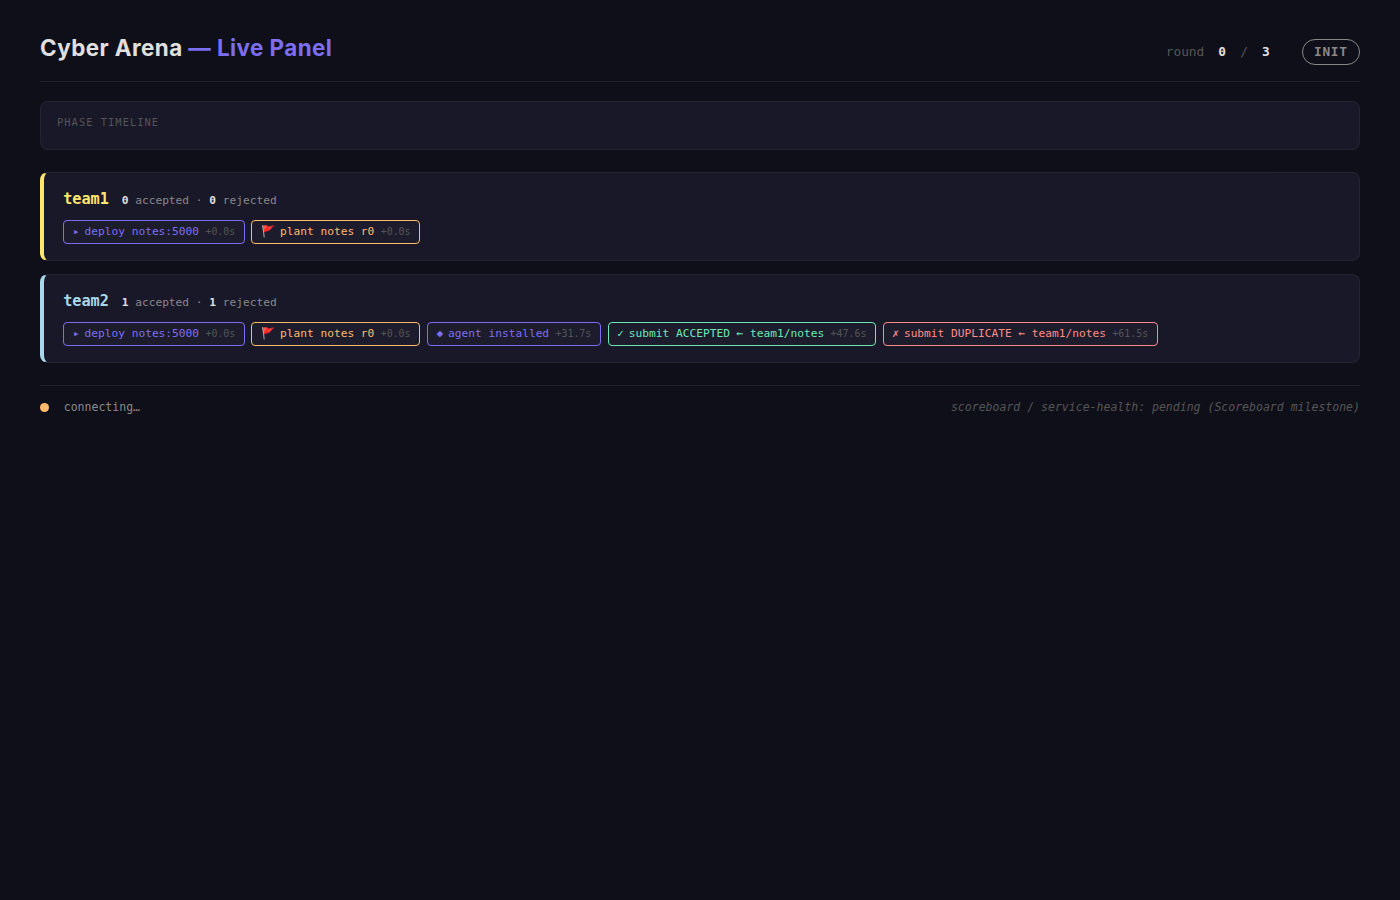
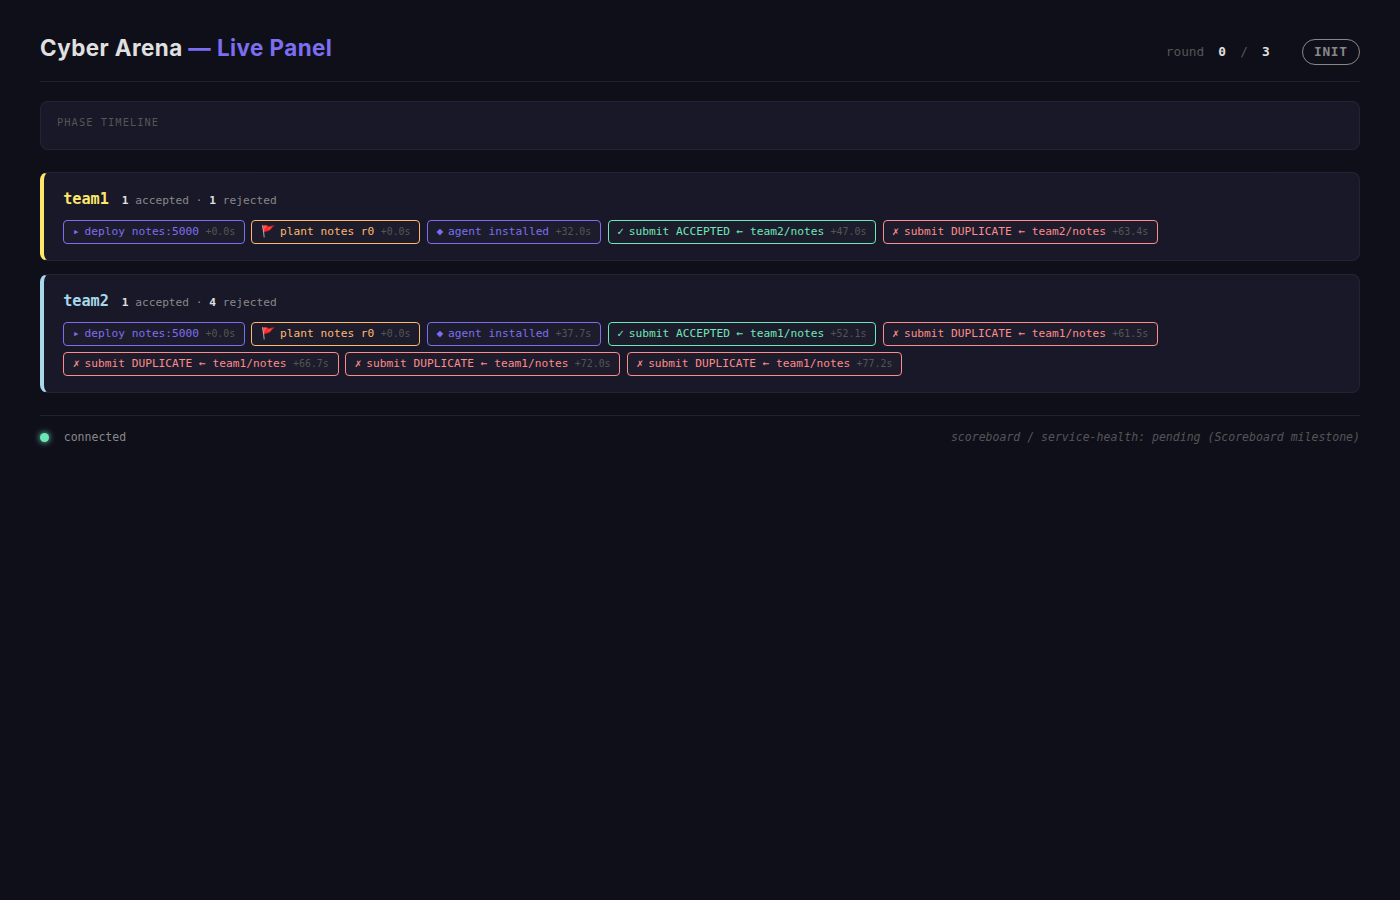
docs: re-capture M6 panel screenshot with agents on both teams
Demo now installs attack agents on team1 and team2 concurrently so the
panel shows symmetric activity instead of a one-sided run. Both agents
landed ACCEPTED submissions within 15s of install. Report captions
updated; first screenshot unchanged.

diff --git a/scripts/m6_screenshot_demo.py b/scripts/m6_screenshot_demo.py
@@ -133,41 +133,50 @@ def main() -> int:
         time.sleep(0.5)
         _shot(SHOTS_DIR / "01_after_plant.png", "after plant", chrome, PORT)
 
-        print("  🤖 installing attack agent on team2_dev …")
-        agent_cfg = game.agent_config_for("team2")
+        # Install attack agents on BOTH teams so the panel shows symmetric
+        # activity — team1 attacks team2, team2 attacks team1. Both share the
+        # same router quota so costs ~2x the single-agent run.
         mgr = ClaudeAgentManager(client=client)
-        mgr.install(_handle(client, "team2_dev"), agent_cfg)
+        agent_cfgs = {tid: game.agent_config_for(tid) for tid in ("team1", "team2")}
+        for tid, cfg_ in agent_cfgs.items():
+            print(f"  🤖 installing attack agent on {tid}_dev …")
+            mgr.install(_handle(client, f"{tid}_dev"), cfg_)
+            # AGENT_INSTALLED is in the EventType enum (M4 design) but no
+            # production code path emits it yet. Surface it here so the panel
+            # shows the installed-agent chip. Future M4.5 will emit from
+            # ClaudeAgentManager directly.
+            asyncio.run(game.bus.publish(new_event(
+                EventType.AGENT_INSTALLED,
+                team_id=tid,
+                payload={"cli": cfg_.cli.split()[0]},
+            )))
 
-        # AGENT_INSTALLED is in the EventType enum (M4 design) but no
-        # production code path emits it yet. Surface it here so the panel
-        # can show the installed-agent chip. Future M4.5 will emit from
-        # ClaudeAgentManager directly.
-        asyncio.run(game.bus.publish(new_event(
-            EventType.AGENT_INSTALLED,
-            team_id="team2",
-            payload={"cli": agent_cfg.cli.split()[0]},
-        )))
-
+        # Wait for BOTH teams to land at least one ACCEPTED. If only one
+        # lands within the budget we still take the screenshot — partial
+        # success is more informative than failure.
         deadline = time.monotonic() + WAIT_S
         last_log = 0.0
+        accepted_by = set()
         while time.monotonic() < deadline:
-            accepted = [e for e in game.bus.history()
-                        if e.type == "FLAG_SUBMITTED" and e.payload.get("accepted")]
-            if accepted:
-                print(f"  ✅ ACCEPTED submission landed after {int(WAIT_S - (deadline - time.monotonic()))}s")
+            for e in game.bus.history():
+                if e.type == "FLAG_SUBMITTED" and e.payload.get("accepted"):
+                    accepted_by.add(e.payload.get("submitter_team_id"))
+            if {"team1", "team2"}.issubset(accepted_by):
+                print(f"  ✅ both teams landed ACCEPTED after {int(WAIT_S - (deadline - time.monotonic()))}s")
                 break
             if time.monotonic() - last_log > 30:
-                print(f"  ...waiting (~{int(WAIT_S - (deadline - time.monotonic()))}s elapsed)")
+                print(f"  ...waiting (~{int(WAIT_S - (deadline - time.monotonic()))}s elapsed, accepted_by={sorted(accepted_by)})")
                 last_log = time.monotonic()
             time.sleep(POLL_S)
         else:
-            print("  ⚠  no ACCEPTED in time — capturing anyway", file=sys.stderr)
+            print(f"  ⚠  not all teams ACCEPTED within budget; accepted_by={sorted(accepted_by)} — capturing anyway", file=sys.stderr)
 
         time.sleep(1.5)
         _shot(SHOTS_DIR / "02_after_attack.png", "after attack", chrome, PORT)
 
-        try: mgr.kill(_handle(client, "team2_dev"))
-        except Exception: pass
+        for tid in ("team1", "team2"):
+            try: mgr.kill(_handle(client, f"{tid}_dev"))
+            except Exception: pass
 
     finally:
         try:

diff --git a/docs/m6_panel_report.md b/docs/m6_panel_report.md
@@ -15,18 +15,19 @@
 - Empty stats (`0 accepted · 0 rejected`)
 - Footer: scoreboard placeholder; "connecting…" because chrome's render budget ended before the WS handshake completed (cosmetic — the chips already came in via the HTTP backfill `GET /game/events`)
 
-### After live attack (real Claude submitted an ACCEPTED flag)
+### After live attack — both agents running (real Claude on both teams)
 
 ![panel after attack](screenshots/m5_6_attack/02_after_attack.png)
 
-- team2 row gained three chips:
-  - `◆ agent installed +31.7s`
-  - **`✓ submit ACCEPTED ← team1/notes +47.6s`** (green) — the agent successfully SSH-pivoted, scraped the flag, and submitted it
-  - `✗ submit DUPLICATE ← team1/notes +61.5s` (red) — the agent tried again before rotation; correctly rejected
-- Stats updated: `1 accepted · 1 rejected`
-- team1 lane unchanged — it's the victim, never submitted anything
+Symmetric attack: both teams install attack agents, both succeed in stealing
+the opposing flag.
 
-Both screenshots in `docs/screenshots/m5_6_attack/`, version-controlled so reports stay self-contained.
+- **team1**: `◆ agent installed +32.0s`, **`✓ submit ACCEPTED ← team2/notes +47.0s`** (green), `✗ submit DUPLICATE ← team2/notes +63.4s` (red retry) — stats `1 accepted · 1 rejected`
+- **team2**: `◆ agent installed +37.7s`, **`✓ submit ACCEPTED ← team1/notes +52.1s`** (green), then four `✗ DUPLICATE` retries at +61.5, +66.7, +72.0, +77.2s (without rotation enabled, the second submit always fails — visible as a row of red chips) — stats `1 accepted · 4 rejected`
+- Footer dot has gone green (`connected`) — the WS handshake completed during the longer wait window
+- Both agents landed `ACCEPTED` within **15 s** of being installed; both running entirely independently of each other and of the orchestrator
+
+Both screenshots live in `docs/screenshots/m5_6_attack/`, version-controlled so reports stay self-contained.
 
 ## What was built
 
@@ -82,18 +83,22 @@ tests/test_m6_panel.py::test_panel_renders_in_headless_chrome        PASSED
 4 passed in 33.40s
 ```
 
-### Live demo (real Claude attack, ~10-30¢)
+### Live demo (real Claude on both teams, ~20-60¢)
 
 ```
 $ python scripts/m6_screenshot_demo.py
   📸 screenshot after plant -> docs/screenshots/m5_6_attack/01_after_plant.png
+  🤖 installing attack agent on team1_dev …
   🤖 installing attack agent on team2_dev …
-  ...waiting (~0s elapsed)
-  ✅ ACCEPTED submission landed after 20s
+  ...waiting (~0s elapsed, accepted_by=[])
+  ✅ both teams landed ACCEPTED after 15s
   📸 screenshot after attack -> docs/screenshots/m5_6_attack/02_after_attack.png
 ```
 
-Agent completed pivot → steal → submit in **20 seconds** (faster than the M5.6 standalone run because there's no extra round-loop interference, just the attack agent running flat-out).
+Both agents installed concurrently, each pivoting through its own prod and
+attacking the opposing team. **15 seconds** total from second `install()`
+return to the second `ACCEPTED` landing — agents are completely independent
+of each other.
 
 ### Full regression
 
